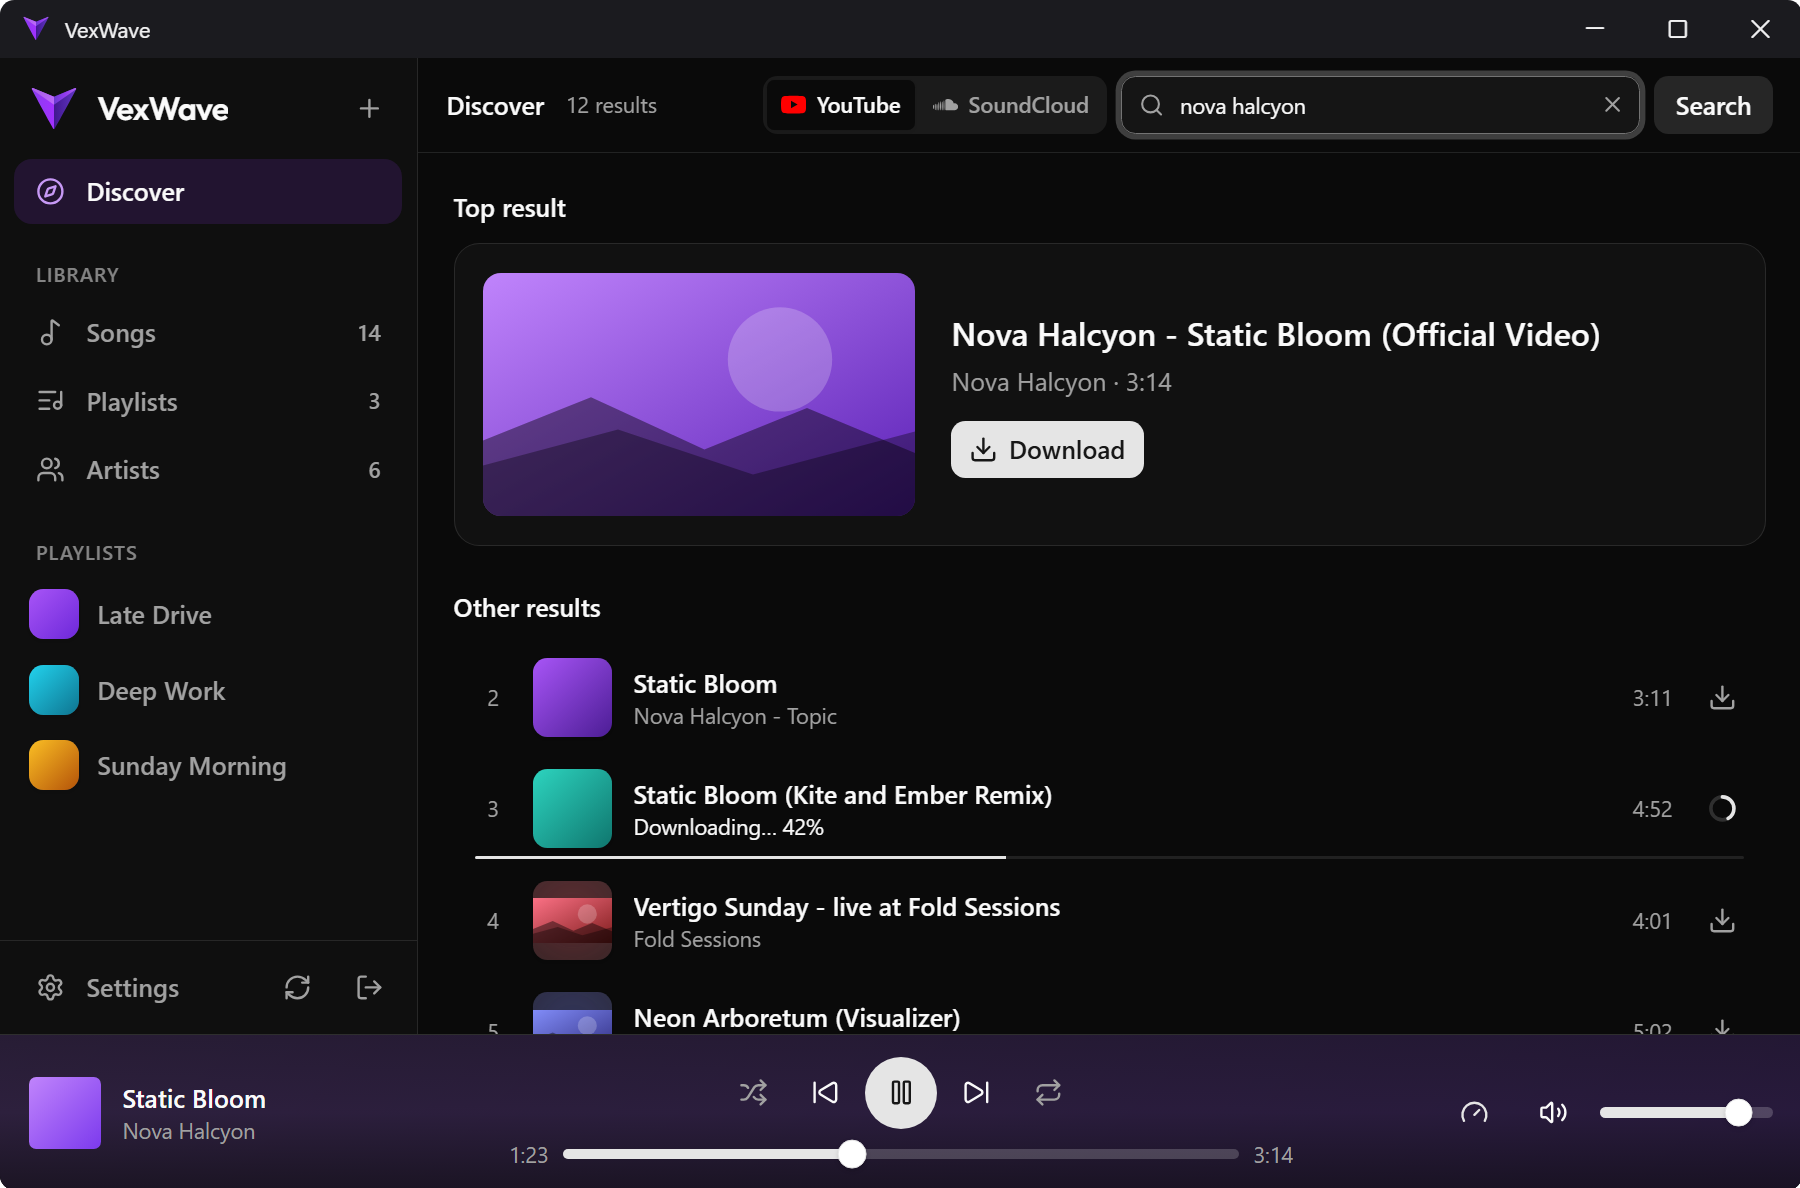
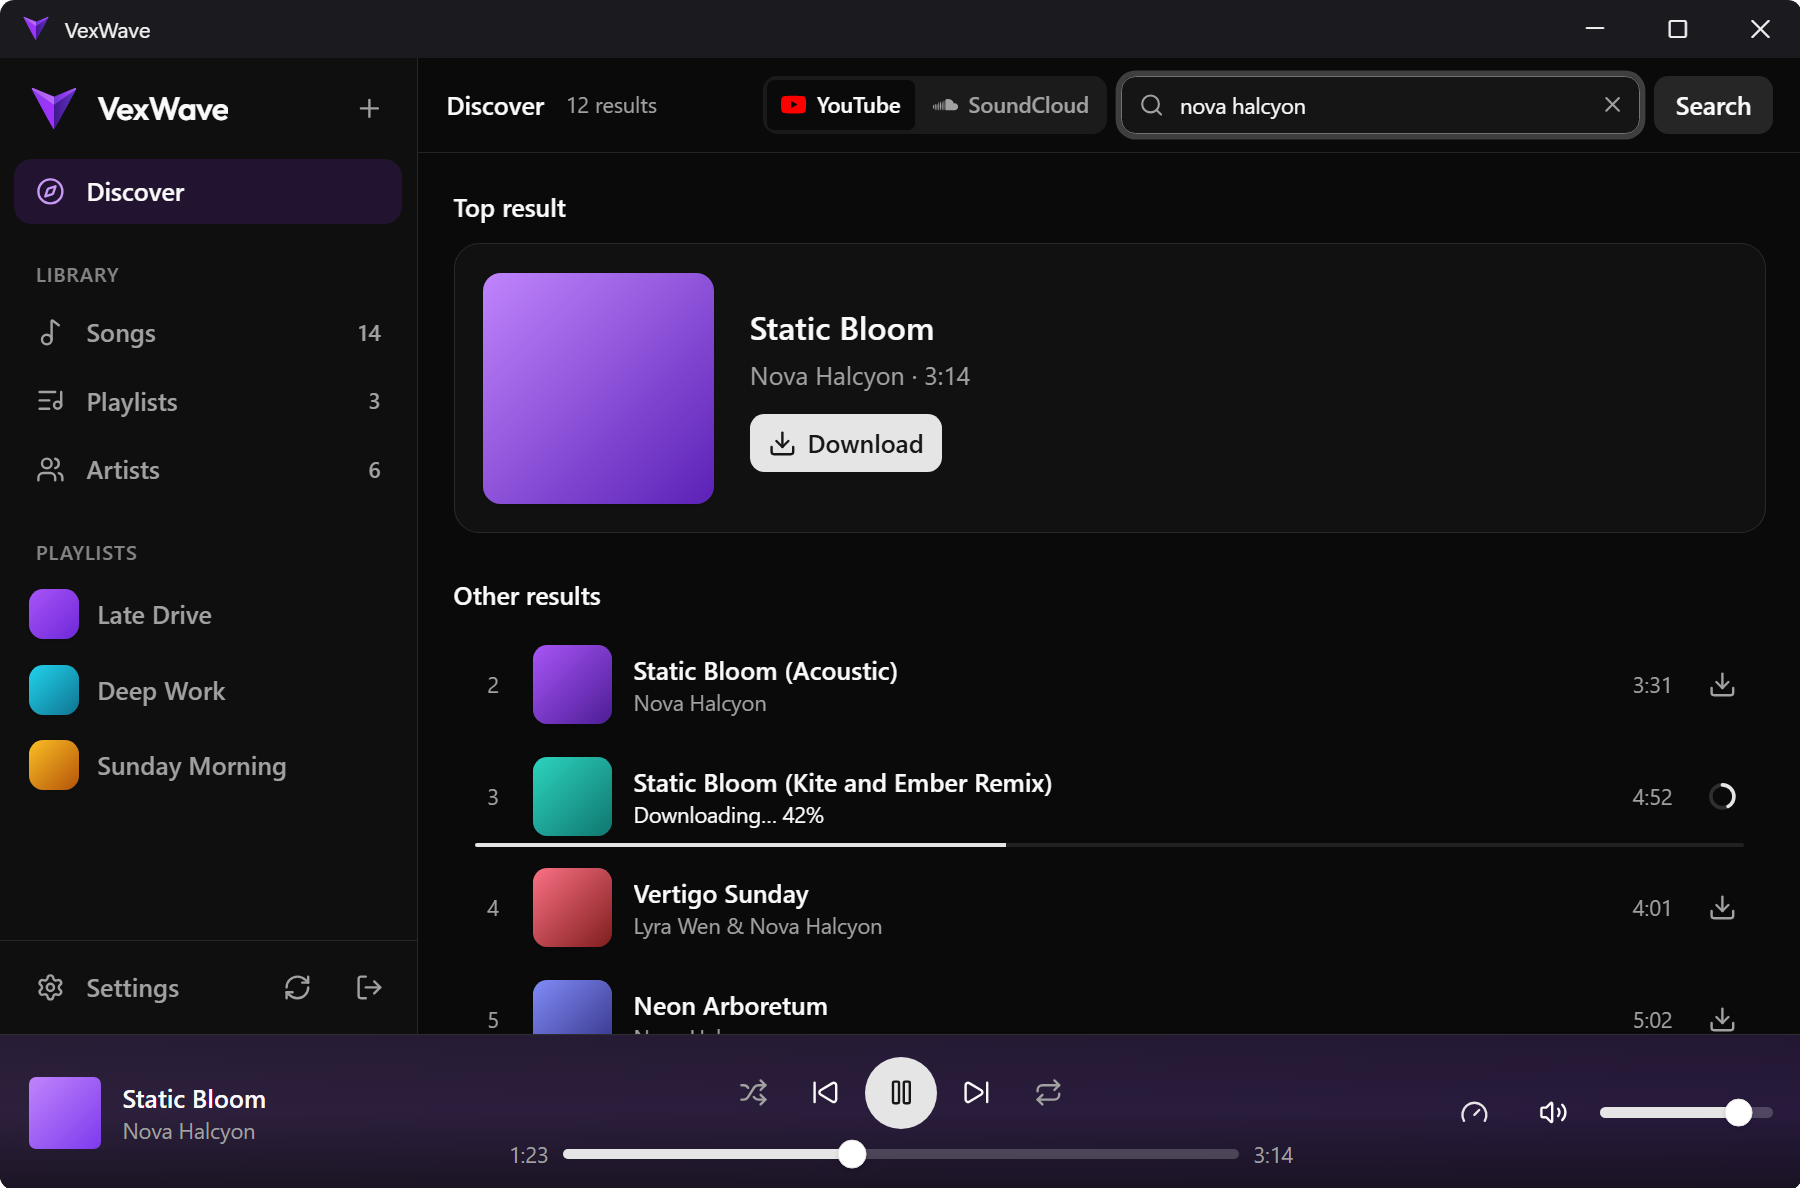
Show Discover covers square, like the rest of the app
YouTube Music results come with square covers, so the top result uses
a 1:1 cover and both it and the rows reuse TrackArtwork. coverFit only
fitted 16:9 video thumbnails and has no user left. The preview harness
now draws square covers too, and assets/discover.png is retaken.

diff --git a/.claude/skills/preview/harness/__preview-app.tsx b/.claude/skills/preview/harness/__preview-app.tsx
@@ -55,8 +55,7 @@ import App from "./App";
 
 // ===========================================================================
 // ARTWORK - data URIs, so a preview needs no network and nothing real or
-// copyrighted ends up in a picture. `crossOrigin="anonymous"` on a `data:` URL
-// still leaves the canvas `lib/coverFit.ts` reads back untainted.
+// copyrighted ends up in a picture.
 // ===========================================================================
 
 const svgUrl = (body: string, width: number, height: number) =>
@@ -72,34 +71,6 @@ const grad = (from: string, to: string) =>
 /** A square sleeve: track covers, playlist covers, artist avatars. */
 const cover = (from: string, to: string) =>
 	svgUrl(`${grad(from, to)}<rect width="256" height="256" fill="url(#g)"/>`, 256, 256);
-
-/**
- * A 16:9 still: a picture reaching both edges, so `coverFit` measures its side
- * bands as picture rather than dead space and the sleeve letterboxes it over a
- * blurred copy of itself.
- */
-const still = (from: string, to: string) =>
-	svgUrl(
-		`${grad(from, to)}<rect width="480" height="270" fill="url(#g)"/>` +
-			`<circle cx="330" cy="96" r="58" fill="#ffffff" fill-opacity="0.22"/>` +
-			`<path d="M0 186 L120 138 L246 196 L360 150 L480 200 L480 270 L0 270 Z" fill="#000000" fill-opacity="0.42"/>` +
-			`<path d="M0 214 L150 174 L300 224 L480 176 L480 270 L0 270 Z" fill="#000000" fill-opacity="0.34"/>`,
-		480,
-		270,
-	);
-
-/**
- * An "art track": a square cover centred in a 16:9 frame with flat bars, which
- * is what `coverFit` crops away so the cover fills the sleeve. Use it beside
- * `still` when a Discover preview should show both fits.
- */
-const artTrack = (from: string, to: string) =>
-	svgUrl(
-		`${grad(from, to)}<rect width="480" height="270" fill="#0c0c0e"/>` +
-			`<rect x="105" width="270" height="270" fill="url(#g)"/>`,
-		480,
-		270,
-	);
 
 // ===========================================================================
 // DATA - rewrite all of this for the preview being asked for. Names are
@@ -142,18 +113,18 @@ const SEARCH_QUERY = "nova halcyon";
 
 const RESULTS: MediaSearchResult[] = (
 	[
-		["Nova Halcyon - Static Bloom (Official Video)", "Nova Halcyon", 194, still("#c084fc", "#5b21b6")],
-		["Static Bloom", "Nova Halcyon - Topic", 191, artTrack("#a855f7", "#4c1d95")],
-		["Static Bloom (Kite and Ember Remix)", "Kite and Ember", 292, artTrack("#2dd4bf", "#0f766e")],
-		["Vertigo Sunday - live at Fold Sessions", "Fold Sessions", 241, still("#fb7185", "#7f1d1d")],
-		["Neon Arboretum (Visualizer)", "Nova Halcyon", 302, still("#818cf8", "#312e81")],
-		["Nova Halcyon - Evening Static [Lyrics]", "Lyric Lantern", 162, still("#38bdf8", "#0c4a6e")],
-		["static bloom but it's slowed + reverb", "drowsy edits", 248, still("#f472b6", "#831843")],
-		["Nova Halcyon - Nightline, full set", "Nightline Radio", 2480, still("#fbbf24", "#7c2d12")],
-		["Neon Arboretum - full album", "Nova Halcyon", 2287, artTrack("#f472b6", "#701a75")],
-		["Paper Lanterns (Nova Halcyon cover)", "Ivo Marlow", 215, still("#fb923c", "#7c2d12")],
-		["Nova Halcyon: Tiny Room Concert", "Tiny Room", 1104, still("#a3e635", "#365314")],
-		["Nova Halcyon - Halfway Signal (Audio)", "Nova Halcyon", 236, artTrack("#60a5fa", "#1e3a8a")],
+		["Static Bloom", "Nova Halcyon", 194, cover("#c084fc", "#5b21b6")],
+		["Static Bloom (Acoustic)", "Nova Halcyon", 211, cover("#a855f7", "#4c1d95")],
+		["Static Bloom (Kite and Ember Remix)", "Kite and Ember & Nova Halcyon", 292, cover("#2dd4bf", "#0f766e")],
+		["Vertigo Sunday", "Lyra Wen & Nova Halcyon", 241, cover("#fb7185", "#7f1d1d")],
+		["Neon Arboretum", "Nova Halcyon", 302, cover("#818cf8", "#312e81")],
+		["Evening Static", "Nova Halcyon", 162, cover("#38bdf8", "#0c4a6e")],
+		["Static Bloom (Slowed)", "drowsy edits", 248, cover("#f472b6", "#831843")],
+		["Nightline", "Nova Halcyon", 268, cover("#fbbf24", "#7c2d12")],
+		["Slow Cartography", "Silvermoth & Nova Halcyon", 251, cover("#f472b6", "#701a75")],
+		["Paper Lanterns", "Ivo Marlow", 215, cover("#fb923c", "#7c2d12")],
+		["Halfway Signal", "Nova Halcyon", 236, cover("#a3e635", "#365314")],
+		["Static Bloom", "Tiny Room Sessions", 203, cover("#60a5fa", "#1e3a8a")],
 	] as const
 ).map(([title, artist, durationSec, thumbnailUrl], index) => ({
 	id: `youtube-${index + 1}`,

diff --git a/frontend/src/components/DiscoverResults.tsx b/frontend/src/components/DiscoverResults.tsx
@@ -1,12 +1,11 @@
-import { memo, useState } from "react";
-import { Ban, Download, Loader2, Music, RotateCw } from "lucide-react";
+import { memo } from "react";
+import { Ban, Download, Loader2, RotateCw } from "lucide-react";
 import { discoverService } from "@/api/DiscoverService";
 import { importPercent, importStatusLabel } from "@/api/ImportService";
+import { TrackArtwork } from "@/components/TrackArtwork";
 import { Button } from "@/components/ui/button";
-import { knownCoverFit, measureCoverFit } from "@/lib/coverFit";
 import { cn, formatTime } from "@/lib/utils";
 import type { ImportJob } from "@/api/ImportService";
-import type { CoverFit } from "@/lib/coverFit";
 import type { MediaSearchResult } from "@/api/types";
 
 export interface DiscoverItem {
@@ -20,9 +19,7 @@ export const TopResult = memo(function TopResult(item: DiscoverItem) {
 	const percent = job ? importPercent(job) : null;
 	return (
 		<div className="flex items-center gap-5 rounded-xl border bg-muted/30 p-4">
-			<div className="relative aspect-video w-2/5 max-w-60 shrink-0 overflow-hidden rounded-lg bg-muted">
-				<ResultArt url={result.thumbnailUrl} wide />
-			</div>
+			<TrackArtwork coverUrl={result.thumbnailUrl} className="size-32 rounded-lg" iconClassName="size-9" />
 			<div className="min-w-0 flex-1 space-y-3">
 				<div className="space-y-1">
 					<p className="line-clamp-2 text-lg font-semibold leading-snug" title={result.title}>
@@ -54,9 +51,7 @@ export const ResultRow = memo(function ResultRow({
 			<span className="w-5 shrink-0 text-center text-xs tabular-nums text-muted-foreground">
 				{position}
 			</span>
-			<span className="relative size-11 shrink-0 overflow-hidden rounded-md bg-muted shadow-xs">
-				<ResultArt url={result.thumbnailUrl} />
-			</span>
+			<TrackArtwork coverUrl={result.thumbnailUrl} className="size-11" />
 			<div className="min-w-0 flex-1">
 				<p className="truncate text-sm font-medium" title={result.title}>
 					{result.title}
@@ -79,7 +74,7 @@ export const ResultRow = memo(function ResultRow({
 export function TopResultSkeleton() {
 	return (
 		<div className="flex animate-pulse items-center gap-5 rounded-xl border bg-muted/30 p-4">
-			<div className="aspect-video w-2/5 max-w-60 shrink-0 rounded-lg bg-foreground/10" />
+			<div className="size-32 shrink-0 rounded-lg bg-foreground/10" />
 			<div className="flex-1 space-y-3">
 				<div className="h-5 w-3/5 rounded bg-foreground/10" />
 				<div className="h-3 w-1/4 rounded bg-foreground/10" />
@@ -202,53 +197,5 @@ function ProgressBar({ percent, className }: { percent: number; className: strin
 		<div className={cn("overflow-hidden rounded-full bg-foreground/10", className)}>
 			<div className="h-full bg-primary transition-[width] duration-200" style={{ width: `${percent}%` }} />
 		</div>
-	);
-}
-
-function ResultArt({ url, wide }: { url: string | undefined; wide?: boolean }) {
-	const [measured, setMeasured] = useState<CoverFit | null>(null);
-	const [broken, setBroken] = useState(false);
-
-	if (!url || broken) {
-		return <Music className="absolute inset-0 m-auto size-2/5 text-muted-foreground" />;
-	}
-
-	const fit = measured ?? knownCoverFit(url) ?? "contain";
-	// coverFit's "cover" means a square picture, so it fills a square frame but needs a backdrop in a wide one.
-	const fills = fit === (wide ? "contain" : "cover");
-
-	return (
-		<>
-			{!fills && (
-				<img
-					src={url}
-					alt=""
-					aria-hidden="true"
-					className={cn(
-						"absolute inset-0 h-full w-full object-cover opacity-70 blur-xl saturate-150",
-						wide ? "scale-[2]" : "scale-110",
-					)}
-				/>
-			)}
-			<img
-				src={url}
-				alt=""
-				loading="lazy"
-				crossOrigin="anonymous"
-				onLoad={(e) => {
-					const next = measureCoverFit(url, e.currentTarget);
-					if (next !== fit) setMeasured(next);
-				}}
-				onError={() => setBroken(true)}
-				className={cn(
-					"absolute inset-y-0 h-full",
-					fills
-						? "inset-x-0 w-full object-cover"
-						: wide
-							? "left-1/2 aspect-square -translate-x-1/2 object-cover"
-							: "inset-x-0 w-full object-contain",
-				)}
-			/>
-		</>
 	);
 }

diff --git a/.claude/skills/preview/SKILL.md b/.claude/skills/preview/SKILL.md
@@ -74,10 +74,7 @@ against the app's real types and a store that changed shape is a compile error
 rather than a wrong picture.
 
 Conventions worth keeping: names fictional, and artwork as **gradient SVG data
-URIs** — no network, nothing copyrighted, and `crossOrigin="anonymous"` on a
-`data:` URL still leaves the canvas `lib/coverFit.ts` reads back untainted.
-`still()` and `artTrack()` are a pair, so a Discover preview can show both
-branches of that measurement.
+URIs** — no network, nothing copyrighted.
 
 ## How the picture is made
 
